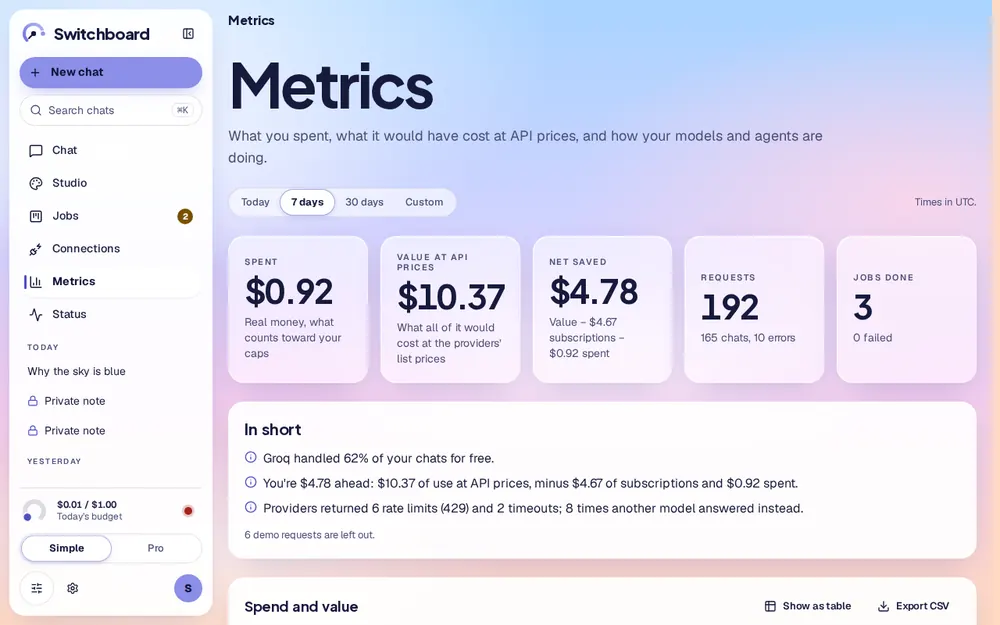
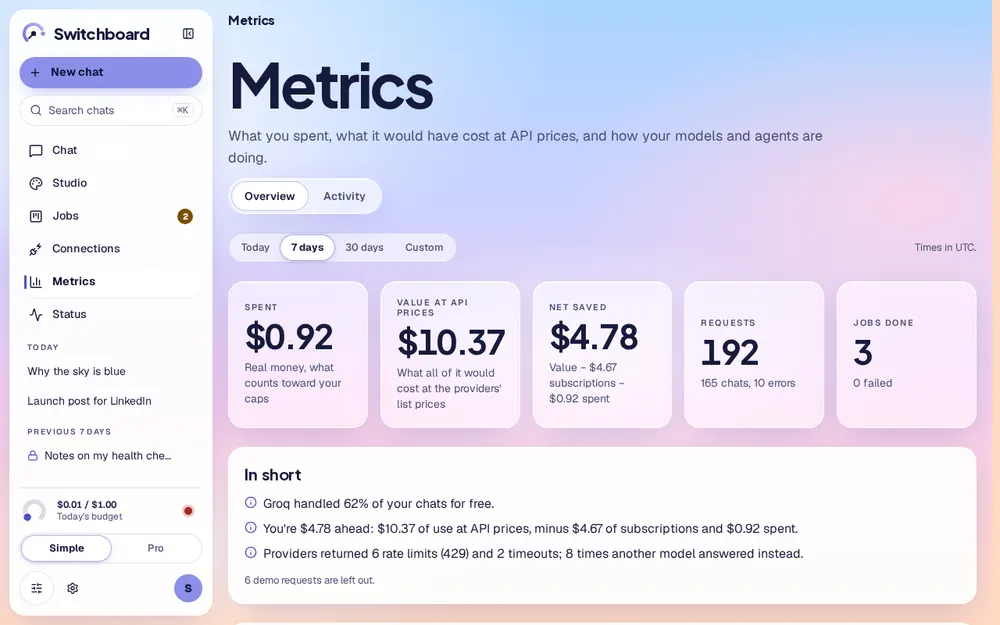
WIP: docs (ADRs 0016-0017, m25 guide, SPEC, README), version 0.9.0, test updates

diff --git a/apps/portal/src/lib/server/attachments-fixtures.ts b/apps/portal/src/lib/server/attachments-fixtures.ts
@@ -82,8 +82,9 @@ export async function upload(body: ReadableStream<Uint8Array> | null, name: stri
   const a = info(id, name.replace(/[^\w.\- ()]+/g, "_").slice(0, 120), s.kind, s.mime, bytes.length, {
     code: !!s.code,
     status: "staged",
-    width: s.kind === "image" ? 1024 : null,
-    height: s.kind === "image" ? 768 : null,
+    // A PNG's real size from its header (like the router reports); other images a 4:3 stand-in.
+    width: s.kind === "image" ? (s.mime === "image/png" && bytes.length > 24 ? new DataView(bytes.buffer, bytes.byteOffset).getUint32(16) : 1024) : null,
+    height: s.kind === "image" ? (s.mime === "image/png" && bytes.length > 24 ? new DataView(bytes.buffer, bytes.byteOffset).getUint32(20) : 768) : null,
     pages: isPdf ? 1 : null,
     text_chars: s.kind === "text" ? text.length : isPdf ? 900 : 0,
     tokens: s.kind === "image" ? 1032 : Math.max(1, Math.floor((s.kind === "text" ? text.length : 900) / 4)),

diff --git a/apps/portal/src/lib/server/fixtures.ts b/apps/portal/src/lib/server/fixtures.ts
@@ -463,7 +463,7 @@ export function handle<T>(method: string, path: string, body: unknown): Result<T
         providers: [{ provider: "groq", name: "Groq", model: "openai/gpt-oss-120b", fraction: 0.31, window: "day", kind: "requests", used: 310, limit: 1000, resets_at: null, source: "counter", estimate: false }],
         top: null,
       },
-      version: "0.8.0", // PROJECT_VERSION: scripts/check-docs.mjs keeps this equal to the root VERSION file
+      version: "0.9.0", // PROJECT_VERSION: scripts/check-docs.mjs keeps this equal to the root VERSION file
     });
   m = p.match(/^\/connections\/([\w-]+)\/credits$/);
   if (m && method === "PUT") {

diff --git a/services/router/tests/test_classifier.py b/services/router/tests/test_classifier.py
@@ -116,7 +116,12 @@ async def test_sensitive_message_stays_local_with_a_notice_and_can_be_overridden
     assert first(ev, "route")["local"] is False
     t = (await client.get(f"/chat/threads/{tid}", headers=ADMIN)).json()["thread"]
     assert not t["private"] and t["private_source"] is None
-    reqs = (await session.execute(select(Request).order_by(Request.id))).scalars().all()
+    # chat requests only (M2.5: titles have their own `aux` rows in the Activity log)
+    reqs = (
+        (await session.execute(select(Request).where(Request.kind == "chat").order_by(Request.id)))
+        .scalars()
+        .all()
+    )
     assert reqs[0].decision_json["sensitive"]["overridden"] is True
     assert reqs[0].decision_json["classifier"]["route"] == "sensitive_health"
     assert reqs[1].decision_json["sensitive"] is None  # the re-run skipped auto-detection

diff --git a/services/router/tests/test_api.py b/services/router/tests/test_api.py
@@ -72,6 +72,7 @@ async def test_add_test_remove_key(client, litellm, providers_ok, hostprobe_up, 
         "private",
         "local-code",
         "local-think",  # M4a: "Think harder" (the profile's thinking model)
+        "local-vision",  # M2.5: images in private chats (the profile's vision model)
         "groq/*",  # M2: any catalog model by name (model:groq/<id>)
         "ollama/*",
     }

diff --git a/docs/m25.md b/docs/m25.md
@@ -1,0 +1,114 @@
+# M2.5: Attachments and the Activity log
+
+Branch `m25`. Decisions: [ADR 0016](adr/0016-attachments-storage-and-handling.md) (where files live, how a file's type
+is decided, safe serving, job copies that are never committed) and [ADR 0017](adr/0017-activity-log-from-requests.md)
+(the Activity log reads `requests`; titles, summaries and model tests get request rows). The plan was approved on
+2026-11-22 with your choices: roadmap ids M6.7 / M6.8 / M6.9, a host data folder (mode 700, shared by the router
+and hostprobe), request rows for titles and tests with "Private chat" in Activity, at most 6 GB of vision-model
+downloads, and only images rendered inline.
+
+This milestone also made the router image cache its dependencies (commit 0) and wrote the efficiency rules and the
+full pre-launch roadmap into CLAUDE.md, PROGRESS, the README and SPEC §11 (commit 1).
+
+## What you can do now
+
+| Where | What |
+|---|---|
+| `/chat` and Home | **Attach** with the paperclip, by dropping files on the composer, or by pasting (screenshots). Images (PNG, JPEG, WebP, GIF), PDFs, and text, Markdown, CSV, JSON and code files; 10 MB and 5 files per message. Each file is a chip with upload progress and **×**. Under the chips: "≈ 1,290 tokens on Google AI Studio · gemini-3.1-flash-lite", marked "(estimate)" unless the provider documents its image accounting. A message can be only files. |
+| A sent message | Image thumbnails (click: the full image in a new tab) and download chips for documents. A scanned PDF says "No text found…". A file with a secret says it was masked and the chat stays on this computer. |
+| "Why this?" | "Needs vision: this message has an image", "Long document (≈ 18,000 tokens) → a model with a long context", or the code rule for a code file. Simple mode: "It can read the image you attached." |
+| Private chats | An image is read by the profile's local vision model (`qwen3-vl:2b` on 4–6 GB GPUs). Without one: "No model on this machine can read images, and a private image never goes to the cloud…". Never a cloud call. |
+| Run as job / New job | The chat message's files come along (remove any); **Add files** for more. The agent finds them in `.switchboard/attachments/` in its worktree; they are git-ignored and never committed. Files from a private chat, or with a secret in them, are refused. The job page lists them. |
+| `/metrics/activity` | **Activity**: every request (chats, jobs, titles and summaries, model tests), newest first: time, title or job name, kind, provider and model, cost or value, latency, status (and rule and fallbacks in Pro). Filters: range, kind, status, provider, model (rule in Pro); **Search titles** (never private chats). A row opens "Why this?"; a job opens its page. **Download CSV** of every matching row (formula-safe). |
+| Settings → Data | **Include attachments (.zip)** on export; without it the export lists each file's name, type and size. |
+| Settings → Local models | The profile's vision model, pulled or not, and **Pull vision model** (setup never pulls it on its own). |
+| `scripts/doctor.sh` | **Data folder**: exists, mode 700, yours, not in the repo; **Router → data folder**: writable. |
+
+## How it works
+
+### Files
+- `POST /attachments` (router) takes the raw body with the name in `X-Filename`; the portal's `/api/attachments`
+  streams it through after the same-origin checks and a Content-Length cap.
+- The type comes from the bytes; the extension must agree. Refused: archives (zip, docx, …), programs, HTML, SVG,
+  binary data, unknown text extensions, names that don't match the content. Limits and the allowed lists are in
+  `config/attachments.yaml`.
+- Images: Pillow (`pillow~=12.3.0`) under a pixel cap, orientation applied, metadata dropped by re-encoding, scaled
+  to 2048 px, a 320 px WebP thumbnail. PDFs: pypdf (`pypdf~=6.21.4`), first 50 pages. Text: UTF-8, 200,000
+  characters. Extracted text is secret-scanned and stored masked (the local model also gets the masked text).
+- Storage (ADR 0016): `~/.switchboard/data/attachments/{staging,threads,jobs}/…`, 0700/0600. Same content twice in a
+  chat is stored once. Deleting a chat (or Clear chats) deletes its files; unsent uploads go after 24 h.
+- Serving: images inline with a CSP that allows nothing and `sandbox`; everything else is an
+  `application/octet-stream` download; `nosniff` always; cross-site reads are refused.
+
+### What the model receives
+- Documents: a fenced block after your text (`[Attached PDF “q3.pdf”, 12 pages]`), counted in the context window.
+- Images: an OpenAI-style `image_url` part (data URI); LiteLLM converts it per provider. Images of the newest
+  image-bearing message are sent; older ones become "[Image “x.png” attached earlier]" (`history_images: 1`).
+- Token estimate: Gemini 258 tokens per 768 px tile (one tile up to 384 px), xAI 256 per 448 px tile, others
+  `width × height / 750`, labelled an estimate. Text is ~4 characters per token.
+
+### Routing
+- Every target is checked for the `vision` tag when there is an image ("Can't read images" otherwise). Rules
+  `vision` (`best:vision`) and `long-document` (`best:long-context`) in `rules.yaml` (`when: { attachment: … }`),
+  editable in the Rules UI. A code file sets the intent to code. A manual pick that can't read images falls back to
+  the vision rule's chain.
+- The quota guard counts the attachments: a message that would go over what is left of a provider's token window is
+  sent elsewhere first ("This message (≈50,000 tokens with attachments) would go over the minute token limit").
+- Ollama models are tagged `vision` from Ollama's own `/api/show` capabilities, so a new local vision model needs no
+  config entry. Gemini Flash-Lite is now tagged `vision` (checked live: it read a chart correctly).
+
+### Local vision models (measured 2026-11-22, RTX 3050 4 GB, small profile)
+Free disk first: 209 GB. `gemma3:4b` (3.35 GB) and `qwen2.5vl:3b` (3.2 GB) together were over the 6 GB pull limit,
+so `qwen2.5vl:3b` was **skipped** and the smaller `qwen3-vl:2b` (1.89 GB) tried instead (5.24 GB pulled in all).
+Five fixed images (a colour, a line of text, counting circles, a two-bar chart, an error message):
+
+| Model | Size loaded | On the GPU | Image checks | Per image (loaded) |
+|---|---|---|---|---|
+| `qwen3-vl:2b` | 2.34 GB | 1.91 GB (82%) | 5/5 (needs room to answer: with a 40-token limit it answered nothing) | ~2.0 s |
+| `gemma3:4b` | 3.49 GB | 1.61 GB (46%) | 5/5 | ~2.7 s |
+
+**Small profile: `qwen3-vl:2b`.** `gemma3:4b` was removed from this machine. Medium and large default to
+`gemma3:4b` (not measured on those GPUs). On a 4 GB GPU the vision model takes turns with the chat model, so the
+first reply with a private image is slower (a cold load took 7–30 s here), and it is loaded only for private
+images. Live: a private chart question was answered "B" by `qwen3-vl:2b` in 3 s once loaded.
+
+### Activity (ADR 0017)
+`GET /activity` keyset-pages `requests` on `(created_at, id)`; `/activity/options`, `/activity/{id}` ("Why this?")
+and `/activity.csv` (up to 50,000 rows). Titles, summaries and model tests write `requests` rows (kind `aux`,
+`test`); the Metrics rollup skips them and keeps counting those calls from their cost rows, so totals don't change.
+
+## Checks
+- Router: see PROGRESS (M2.5 outcome) for the final counts; new suites `test_attachments.py` (sniffing, names,
+  limits, bombs, PDFs, secrets, serving headers, routing, private images, quota, history, deletion, dedupe, export,
+  Ollama capabilities) and `test_activity.py` (kinds, privacy, filters, search, keyset, jobs, CSV, totals).
+- hostprobe: copy into the worktree, git-ignored and excluded from commits, traversal, links and refusals.
+- Portal: `m25.spec.ts` (picker, drop, paste, refusals, private image, safe serving incl. an HTML/script file and a
+  PDF with JavaScript, cross-site refusal, Activity list, filters, search privacy, Why dialog, CSV) with axe in both
+  themes; new baselines `chat-attach-composer`, `chat-attach-sent`, `metrics-activity`; Metrics and Settings
+  baselines regenerated (new tabs, export switch, vision row).
+
+## Live check on this machine (2026-11-22)
+- Uploaded a chart: estimate 263 tokens (258 documented); answer from Gemini Flash-Lite: "Bar B is taller than bar
+  A.", rule `vision`.
+- The same chart in a private chat: `qwen3-vl:2b` answered "B"; never a cloud call.
+- Job 18 in `~/switchboard-playground` (OpenCode, read-only) with `notes.md`: the file landed in
+  `.switchboard/attachments/` (0600), `git status` clean, `check-ignore` matched; the agent cited the file in its
+  report. Approved and done.
+- Activity listed the chat, its title, the private chat and its title, the job and a model test; CSV downloaded.
+- doctor: data folder mode 700 and yours; router writes to it; migrations at 0011.
+
+## Decisions taken without asking (reversible)
+- Image token rules live in `config/attachments.yaml` (`image_tokens`), not `providers.yaml`: everything about
+  attachments in one file.
+- Masked document text also goes to the local model (a pasted secret's raw text does, for one turn); the file on
+  disk keeps the original.
+- Activity offers Today / 7 days / 30 days (no custom range yet: carry-over).
+- The upload is a raw body, not multipart (no new parser dependency).
+- A `.md` or `.txt` file that *starts* with HTML or SVG markup is refused like an HTML file.
+
+## Changes on your machine (outside the repo)
+- `deploy/.env`: `SWITCHBOARD_DATA_DIR`, `SWITCHBOARD_UID`, `SWITCHBOARD_GID` appended; `~/.switchboard/data`
+  created (700). The router container now runs as your uid.
+- Router image rebuilt (dependency layer cached), migration 0011 applied; hostprobe restarted (new route).
+- Ollama: `qwen3-vl:2b` pulled (kept, the small profile's vision model); `gemma3:4b` pulled and removed.
+- Job 18 and its branch in `~/switchboard-playground`; a few test chats and uploads.

diff --git a/SPEC.md b/SPEC.md
@@ -161,6 +161,10 @@ Routing chooses the **provider and the model**, not just the provider.
 3. **Classifier**: Arch-Router-1.5B on Ollama with route descriptions from `rules.yaml`. ~~Fallback: `fast` model with a JSON-schema classification prompt.~~ M3a: strong keyword signals decide first, with no model call. The fallback, when the classifier is down, reloading, slower than 1.5 s or unclear, is the keyword heuristics, including a first-person sensitive check (docs/m3a.md).
    - **Auto-private (M3a).** A message classified as sensitive (health, finance, legal, personal) goes local and makes the thread private, with a "Not sensitive — use cloud" override. Settings → Privacy can turn it off.
    - **Secrets (M3a).** A pasted secret (API key, token, private key, password, card number) always goes local, with no override, and is masked in everything stored.
+   - **Attachments (M2.5, ADR 0016).** An image needs a model tagged `vision` (every target is checked); a long
+     document (over `long_document_tokens`) prefers `best:long-context`; a code file sets the intent to code. A secret
+     in an attached file keeps the turn local like a pasted one. A private image only goes to the profile's local
+     vision model (`local-vision`), or the reply says none can read it. The quota guard counts the attachments' tokens.
 4. **Rule match** → target + fallbacks + autonomy + temperature + caps.
 5. **Health/quota check**: skip targets that are down, out of quota, cooling down after 429, or over budget.
 6. **Dispatch** and **log the decision** (inputs, matched rule, chosen target, skipped targets with reasons, latency).
@@ -240,7 +244,8 @@ dial shows level 3 but can't land on it, with the reason next to it.
 
 ## 8. Portal screens
 
-1. **Chat** — threads, streaming, file/image attach, composer with: `Auto` / manual target picker, temperature slider, autonomy selector, private toggle. Each reply shows a chip: *routed to X by rule Y* (click → decision log). "Convert to job" button.
+1. **Chat** — threads, streaming, file/image attach (**built in M2.5**, docs/m25.md: paperclip, drop, paste; chips with
+   the token estimate; thumbnails and download chips on the message; only raster images render inline), composer with: `Auto` / manual target picker, temperature slider, autonomy selector, private toggle. Each reply shows a chip: *routed to X by rule Y* (click → decision log). "Convert to job" button.
 2. **Studio** — image and video generation, gallery, prompt history, per-item cost, re-run with another provider. Cost confirmation for video.
 3. **Agents & Jobs** — list Paperclip agents with status; job board (queued / running / needs approval / done); live log stream; diff or report view; approve / reject / stop. Deep-link to Paperclip for advanced config.
    **Built in M4b** (docs/m4b.md): `/jobs` board (status tabs with counts, agent/project filters, paging), `/jobs/<id>` (timeline, live log, plan, per-file diff, approve/reject with a note, stop, cost or "cost not reported", branch and plain merge instructions; Switchboard never pushes), "Run as job" from a chat reply, `/jobs/agents` (fleet: hire from templates, edit, pause, reset, delete; ADR 0009), Settings → Projects (allowlist, copies, retention) and Settings → Jobs (approval expiry, desktop notifications).
@@ -256,6 +261,8 @@ dial shows level 3 but can't land on it, with the reason next to it.
 5. **Rules** (`/settings/rules`, M3b) — Simple mode: the presets (active one, paid policy) and the tester; Pro mode: rule table + form editor, slash commands, classifier wording, weights/quota/summary/defaults, version history with diff and rollback. The tester ("try a message") shows the decision, the classifier's answer, the order targets would be tried, the reasons, the per-factor score breakdown and the runner-up, and includes unsaved changes.
 6. **Metrics** — date range filter; tokens and cost by provider / model / agent / rule; requests, errors, 429s, latency p50/p95; quota burn-down; media spend; Paperclip budget status; top expensive requests.
    **Built in M6** (docs/m6.md, ADRs 0011/0012): `/metrics` in the viewer's time zone (Today / 7 days / 30 days). Simple: spent, value at API prices, net saved (after Settings → Subscriptions fees and spend), requests, jobs done, one-sentence insights, spend/value chart. Pro: breakdowns by provider / model / agent / rule / intent / project / kind, errors and fallbacks, latency p50/p95, quota burn-down with reset times, budgets with a straight-line forecast, 👍/👎 per model, job success per agent, most valuable requests (titles and job names only; private chats show "Private chat"), include-demo toggle. Every table exports CSV. Media spend arrives with M5.
+   **M2.5 (ADR 0017):** Metrics → **Activity** (`/metrics/activity`): every request (chats, jobs, titles and summaries,
+   model tests), keyset-paged, filters, title search (never private chats), "Why this?" per row, formula-safe CSV.
 7. **Settings** — users/roles (admin, user), budgets, data-retention, export/import config.
 
 Design: calm "dreamy sky" glass (Day sky / Dusk), keyboard-first (⌘K command palette), mobile-friendly read-only. See §8c.
@@ -481,6 +488,7 @@ Buildable by one person with Claude Code: the hard parts (agents, gateway, queue
 - `messages(id, thread_id, role, content, status[streaming|done|stopped|error|notice|blocked], request_id, private, feedback, meta_json, created_at)`: reasoning text is never stored; `meta_json` holds the "Why this?" data (M2)
 - `jobs(request_id, paperclip_issue_id, agent, status, approval_state)`: M6.5 adds `account`, `rule_id`, `resume_at`, `attempt`, `waits`, `paid`, `paid_budget_usd` and the status `waiting_reset`
 - `cli_accounts(id, cli, name, label, created_at, deleted_at)` and `usage_windows(cli, account, window, used, resets_at, limited, source[reported|estimate], capacity, hours, seen_at)`; `agent_profiles.account`, `projects.accounts` (M6.5, ADRs 0013/0014)
+- `attachments(id uuid, thread_id, message_id, job_id, status[staged|bound], sha256, name, kind[image|pdf|text], mime, bytes, code, pages, pages_read, width, height, text_chars, truncated, secret_kinds, note, created_at)`: the bytes live in the data folder, never in the DB (M2.5, ADR 0016). `requests.kind` also takes `aux` (a title or summary) and `test` (a model test), with `requests.call_id` (ADR 0017)
 - `media(request_id, type, provider, file_path, cost_usd)`
 - `model_catalog(id, provider, model_id, tags_json, context, prices_json, privacy, status, updated_at)` (see §6.4)
 - `model_stats(model_id, task_type, samples, p50_ms, p95_ms, error_rate, thumbs_up, thumbs_down, score, updated_at)` (see §6.4)

diff --git a/README.md b/README.md
@@ -7,7 +7,7 @@
 
 <p align="center">
   <a href="LICENSE"><img src="https://img.shields.io/github/license/DevelopingGod/switchboard?style=flat-square&color=8b8fe8" alt="License: MIT"></a>
-  <a href="VERSION"><img src="https://img.shields.io/badge/version-0.8.0-8b8fe8?style=flat-square" alt="Version 0.4.0"></a>
+  <a href="VERSION"><img src="https://img.shields.io/badge/version-0.9.0-8b8fe8?style=flat-square" alt="Version 0.4.0"></a>
   <a href="https://github.com/DevelopingGod/switchboard/stargazers"><img src="https://img.shields.io/github/stars/DevelopingGod/switchboard?style=flat-square&color=8b8fe8" alt="GitHub stars"></a>
   <img src="https://img.shields.io/badge/runs_on-Windows_%2B_WSL2-8b8fe8?style=flat-square" alt="Runs on Windows with WSL2 today; macOS and Linux planned">
 </p>
@@ -149,7 +149,10 @@ jobs.
 Leave **Target** on *Auto* and ask something. Click the route chip (**Why this?**) to see which model answered and
 why. Type `/code`, `/research`, `/bulk` or `/private` to steer a single message, or flip the **Private** switch
 to keep a whole chat on your machine. Private replies come from a local model that answers at once; press
-**Think harder** for one message when it needs a slower model that reasons first. Press <kbd>Ctrl</kbd>/<kbd>⌘</kbd> + <kbd>K</kbd> anywhere to search.
+**Think harder** for one message when it needs a slower model that reasons first. Attach images, PDFs, text or code
+with the paperclip, by dropping them on the box, or by pasting a screenshot: the box shows roughly how many tokens
+they will cost, a message with an image goes to a model that can read images, and a private image is read only by a
+local model (or you are told none is set up). Press <kbd>Ctrl</kbd>/<kbd>⌘</kbd> + <kbd>K</kbd> anywhere to search.
 
 <p align="center">
   <picture>
@@ -246,6 +249,22 @@ Everything below ships today. Screenshots use fixture data (no real keys, chats 
         <img src="docs/media/shot-wizard-goals-day.webp" alt="The first-run wizard asking what you want to do, so it only asks for the providers you need.">
       </picture>
       <br><sub><b>A guided first run.</b> Skippable, resumable, and it only asks for the providers your goals need.</sub>
+    </td>
+  </tr>
+  <tr>
+    <td width="50%" valign="top">
+      <picture>
+        <source media="(prefers-color-scheme: dark)" srcset="docs/media/shot-chat-attach-dusk.webp">
+        <img src="docs/media/shot-chat-attach-day.webp" alt="A chat message with an attached bar chart shown as a thumbnail and a PDF as a download chip; the reply, from a Google AI Studio model that can read images, describes the chart.">
+      </picture>
+      <br><sub><b>Files and images.</b> Attach, drop or paste. Images go to a model that can read them; private images stay on your computer; files never run.</sub>
+    </td>
+    <td width="50%" valign="top">
+      <picture>
+        <source media="(prefers-color-scheme: dark)" srcset="docs/media/shot-activity-dusk.webp">
+        <img src="docs/media/shot-activity-day.webp" alt="Metrics, Activity: a searchable list of every request with its title (private chats show Private chat), kind, provider and model, value, latency and status, with filters and a Download CSV button.">
+      </picture>
+      <br><sub><b>Activity.</b> Every request in one list: chats, jobs, titles and model tests. Search titles, filter, open "Why this?", export CSV.</sub>
     </td>
   </tr>
 </table>
@@ -381,7 +400,7 @@ through a gateway (see [Privacy](#privacy-and-security)); that is a decision abo
 | ✅ | **M4b** Jobs page and agent fleet | Job board, live log, plan and diff review, Run as job from chat, hire and manage agents, Projects |
 | ✅ | **M6** Metrics | One dashboard for spend, honest savings, quotas, budgets, errors and latency, with CSV export |
 | ✅ | **M6.5** Subscription windows | See each subscription's usage window, jobs that wait for a reset and continue, separate accounts for separate purposes, opt-in paid overflow |
-| 🔜 | **M2.5** Attachments and Activity log | Attach files and images in chat (button, drag-and-drop, paste); private attachments stay on your machine; attachments in jobs; a searchable list of every request (in progress) |
+| ✅ | **M2.5** Attachments and Activity log | Attach files and images in chat (button, drag-and-drop, paste); private attachments stay on your machine; attachments in jobs; a searchable list of every request |
 | 🔜 | **M4.5** Workflow packs | Installable spec and review workflows, on demand. First auto pack: graphify, used only for agent jobs on projects above a size threshold, installed in the job's copy only, local AST pass by default (AI pass opt-in), pinned and hashed, graph files never committed, turned off per project if Metrics shows no token savings |
 | 🔜 | **M5.5** Content Studio | Drafts, voice profiles, media pairing, export |
 | 🔜 | **M5** Studio | Image and video generation with cost confirmation: local Stable Diffusion for small GPUs, Grok Imagine as a paid opt-in, honest labels |
@@ -423,8 +442,10 @@ No — it falls back to other providers, resumes after resets, and can use paid 
 <details>
 <summary>Where does my data go?</summary>
 
-Chats, rules and settings live in a Postgres database on your machine. A message goes to the provider it is routed
-to (the chip tells you which), unless the chat is private or looks sensitive, in which case it stays on your machine.
+Chats, rules and settings live in a Postgres database on your machine; attached files in a folder next to it
+(`~/.switchboard/data`, readable only by you). A message goes to the provider it is routed to (the chip tells you
+which), unless the chat is private or looks sensitive, in which case it stays on your machine. That includes its
+attachments: a private image is read only by a local model, and a file with a secret in it keeps the chat local.
 
 </details>
 

diff --git a/docs/adr/0016-attachments-storage-and-handling.md b/docs/adr/0016-attachments-storage-and-handling.md
@@ -1,0 +1,49 @@
+# 0016. Attachments: a host data folder, bytes decide the type, per-thread copies, never committed
+
+Status: accepted (2026-11-22, M2.5)
+
+## Context
+M2.5 adds files and images to chat and to agent jobs. They are personal data, they must survive restarts, they
+are deleted with their chat, and a job's agent must be able to read them inside its git worktree (which lives on
+the host and is created by hostprobe, ADR 0008). The router runs in Docker; hostprobe runs as the owner on the
+host. Anything the portal shows comes from its own origin, so a file must never be able to run there.
+
+## Options
+**Where the bytes live**
+1. **A host folder bind-mounted into the router** (`~/.switchboard/data`, `SWITCHBOARD_DATA_DIR`): hostprobe reads
+   the same folder to copy files into a worktree; survives `docker compose down -v`.
+2. A named Docker volume: hostprobe can't see it, so the router would send every job file to hostprobe over HTTP.
+3. Postgres (`bytea`): no folder to manage, but backups and the database grow with every screenshot.
+
+**Who can read it.** The router image runs as uid 10001, hostprobe as the owner. A shared group would need the
+folder at 0770; running the router container as the owner's uid/gid keeps it at **0700**.
+
+**What a file is.** Extension, the browser's MIME type, `python-magic` (libmagic, a system library) or our own
+signature check for a short allowlist.
+
+## Decision
+- **Option 1**, mode 0700, owned by the owner; the router container runs as `SWITCHBOARD_UID:SWITCHBOARD_GID`
+  (written by `setup-wsl.sh`, checked by `doctor.sh`). Never inside the repository (setup refuses; hostprobe
+  refuses to copy from a data folder inside a repo).
+- Layout: `attachments/staging/<upload id>/` (uploaded, not sent; swept after `staging_ttl_h`),
+  `attachments/threads/<thread id>/<sha256>` (one copy per content hash per chat) and
+  `attachments/jobs/<job id>/<sha256>`. Deleting a chat deletes its folder; "already gone" counts as deleted.
+- **Bytes decide the type** (own signatures: PNG, JPEG, WebP, GIF, PDF; UTF-8 text without NUL bytes) and the
+  extension must agree. Archives, programs, HTML and SVG are refused with a plain reason. Images are decoded under
+  a pixel cap (decompression bombs), re-encoded without metadata (EXIF, GPS) and scaled to `max_image_px`; GIFs
+  become PNG. PDFs give text (pypdf, page cap; "scanned PDF" when there is none). Extracted text is secret-scanned
+  and stored masked; a secret keeps the turn local. Nothing is executed. Limits live in `config/attachments.yaml`.
+- **Serving:** only raster images inline, with `Content-Security-Policy: default-src 'none'; …; sandbox` and
+  `nosniff`; PDFs and text are always `application/octet-stream` downloads. The portal re-applies these headers,
+  whatever the router sent.
+- **Jobs:** the job gets its own copy (`jobs/<id>/`); hostprobe copies it into `<worktree>/.switchboard/attachments/`
+  with a `.switchboard/.gitignore` of `*`, and the commit and diff exclude `.switchboard` by pathspec as well, so
+  the files are never committed even if the ignore file is removed. Removing the worktree removes the job copy.
+- Uploads are a raw body with the name in a header (no multipart parser). Pillow and pypdf are pinned.
+
+## Consequences
+- One more folder to back up (TROUBLESHOOTING "Data folder"); exports include files only when asked (.zip).
+- If Docker starts the router before setup created the folder, Docker creates it as root; doctor says so and the
+  fix needs the owner's own `sudo chown` once (Switchboard never runs sudo).
+- A chat file carried into a job is copied, so deleting the chat doesn't break a running job.
+- OCR, audio/video files and Office documents are not accepted yet (carry-overs).

diff --git a/docs/adr/0017-activity-log-from-requests.md b/docs/adr/0017-activity-log-from-requests.md
@@ -1,0 +1,30 @@
+# 0017. The Activity log reads `requests`; titles, summaries and model tests get request rows
+
+Status: accepted (2026-11-22, M2.5)
+
+## Context
+Metrics → Activity lists every request: chats, jobs, titles and summaries, model tests. Before M2.5 only chats and
+jobs had a `requests` row. A title or summary from the local model left no trace at all; one from a cloud model,
+and every model test through LiteLLM, appeared only as a `costs` row (kind `aux` / `test`) without status or
+latency. Metrics (ADR 0012) counts those calls from their cost rows.
+
+## Options
+1. **Write a `requests` row for every title, summary and model test** (`kind` aux / test, status, latency, model,
+   `call_id`), and list `requests` only: one keyset index (`created_at, id`), every row has a status and latency.
+   Metrics' rollup skips these rows so its totals don't change.
+2. Union `requests` with cost rows that have no request: no new writes, but local titles stay invisible, rows
+   have no status or latency, and keyset paging over two tables is harder.
+
+## Decision
+Option 1 (your choice). The cost of an aux/test call is joined by its LiteLLM call id (`external_id =
+'litellm:' || call_id`); a job's by `job_id`; a job row shows the job's own state. Privacy: labels only; a private
+chat, and its titles and summaries, read "Private chat"; titles are secret-masked; the title search never matches
+a private chat's title (trigram indexes on thread and job titles). The CSV is built by the router with the same
+formula-injection guard as the portal's CSV, up to 50,000 rows.
+
+## Consequences
+- Request counts in Metrics are unchanged (a test proves it), because the rollup still counts these calls once,
+  from costs.
+- `requests` grows by one row per title or summary; the same retention as chats will apply when retention lands.
+- Model tests that call a provider directly (not through LiteLLM) are listed with no cost, which is true: they are
+  1-token pings.

diff --git a/docs/PROGRESS.md b/docs/PROGRESS.md
@@ -27,7 +27,7 @@
 | M5.5 Content Studio | ⏳ | — | Sonnet 5.5, medium | |
 | M6 Metrics | ✅ Merged | m6 / #14 | Opus 5.5 | One costs table deduped by LiteLLM call id, 15-minute rollups via triggers, `/metrics` Simple + Pro, honest net savings with Subscriptions, SVG charts (ADR 0011), CSV export, Agents No cap; see M6 outcome |
 | M6.5 Subscription windows | ✅ Merged | m65 / #15 | Opus 5.5 | Usage windows per subscription CLI (reported or labelled estimate), jobs that wait for resets and resume, named accounts (never rotated; ADR 0013), opt-in paid overflow through per-run LiteLLM keys (ADR 0015), custom Metrics range, rollup health; see M6.5 outcome |
-| M2.5 Attachments + Activity log | 🔜 In progress | m25 | Opus 5.5 | Files and images in chat (attach, drag, paste), safe storage and extraction, vision/long-document routing, private stays local, attachments in jobs, Metrics → Activity; see the pre-launch roadmap |
+| M2.5 Attachments + Activity log | ✅ Done (PR in review) | m25 | Opus 5.5 | Files and images in chat (attach, drag, paste), safe storage and extraction, vision/long-document routing, private stays local, attachments in jobs, Metrics → Activity; see the pre-launch roadmap |
 | M6.7 Local compute optimizer | ⏳ | — | — | Multi-GPU (NVIDIA + AMD iGPU), GPU/RAM split, fit advisor, tuning |
 | M6.8 Providers: custom providers + presets | ⏳ | — | — | Connections → Add custom provider (OpenAI-compatible, local servers), presets, YAML export/import |
 | M6.9 Quiet beta | ⏳ | — | — | 5–10 users before launch |
